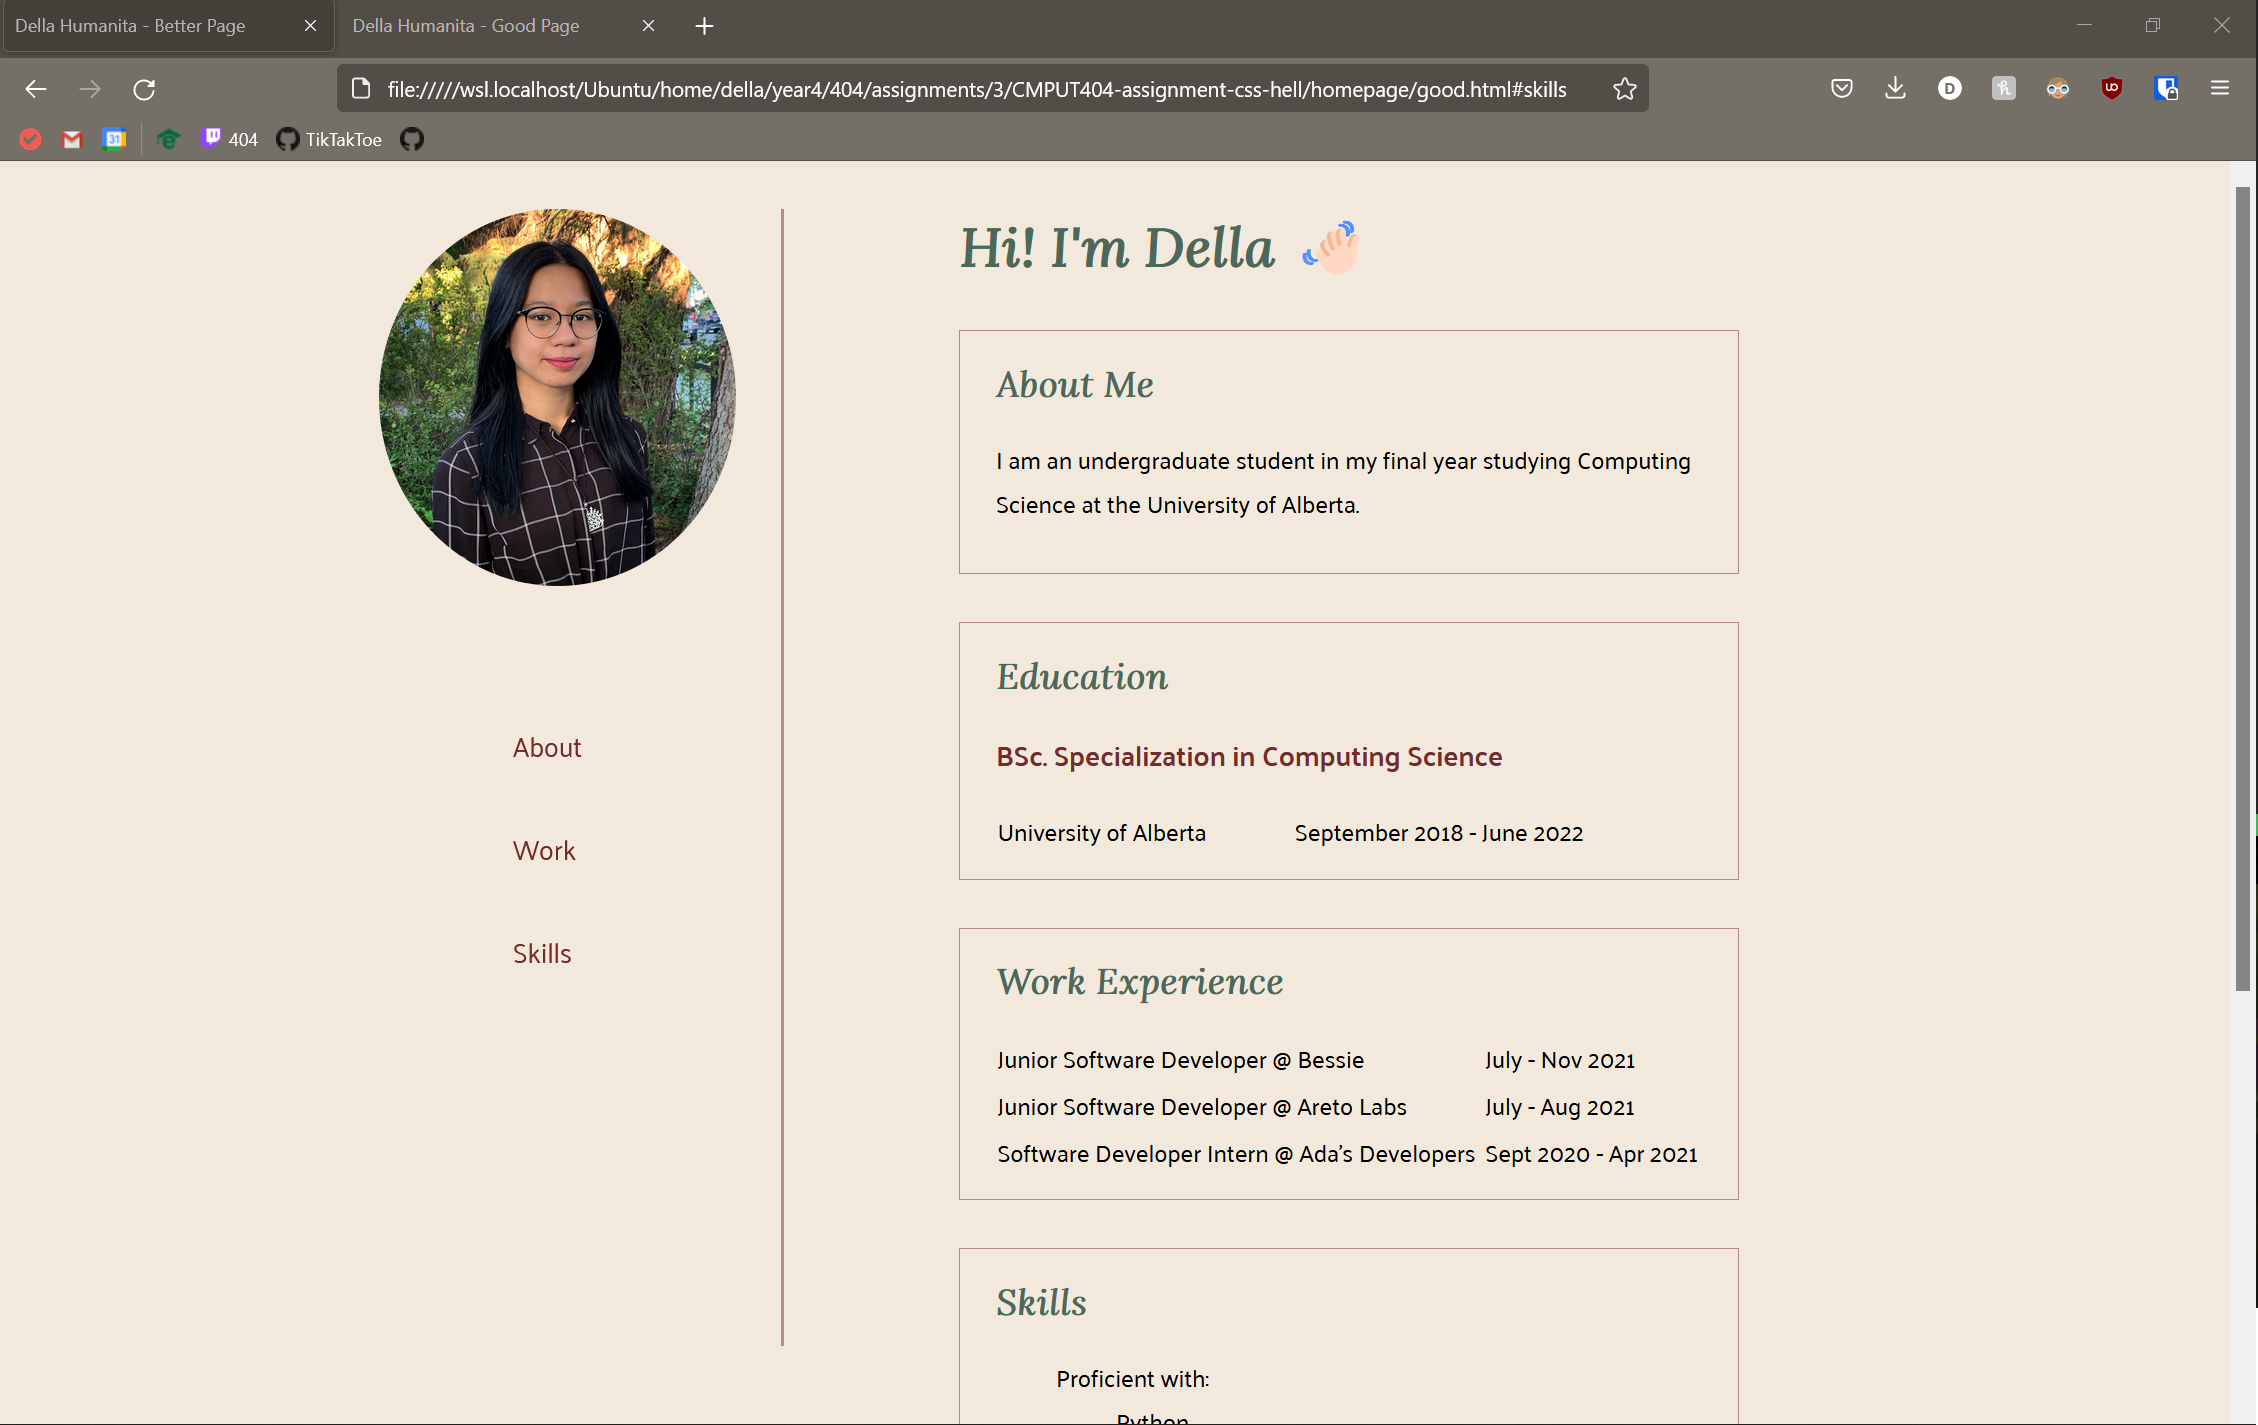
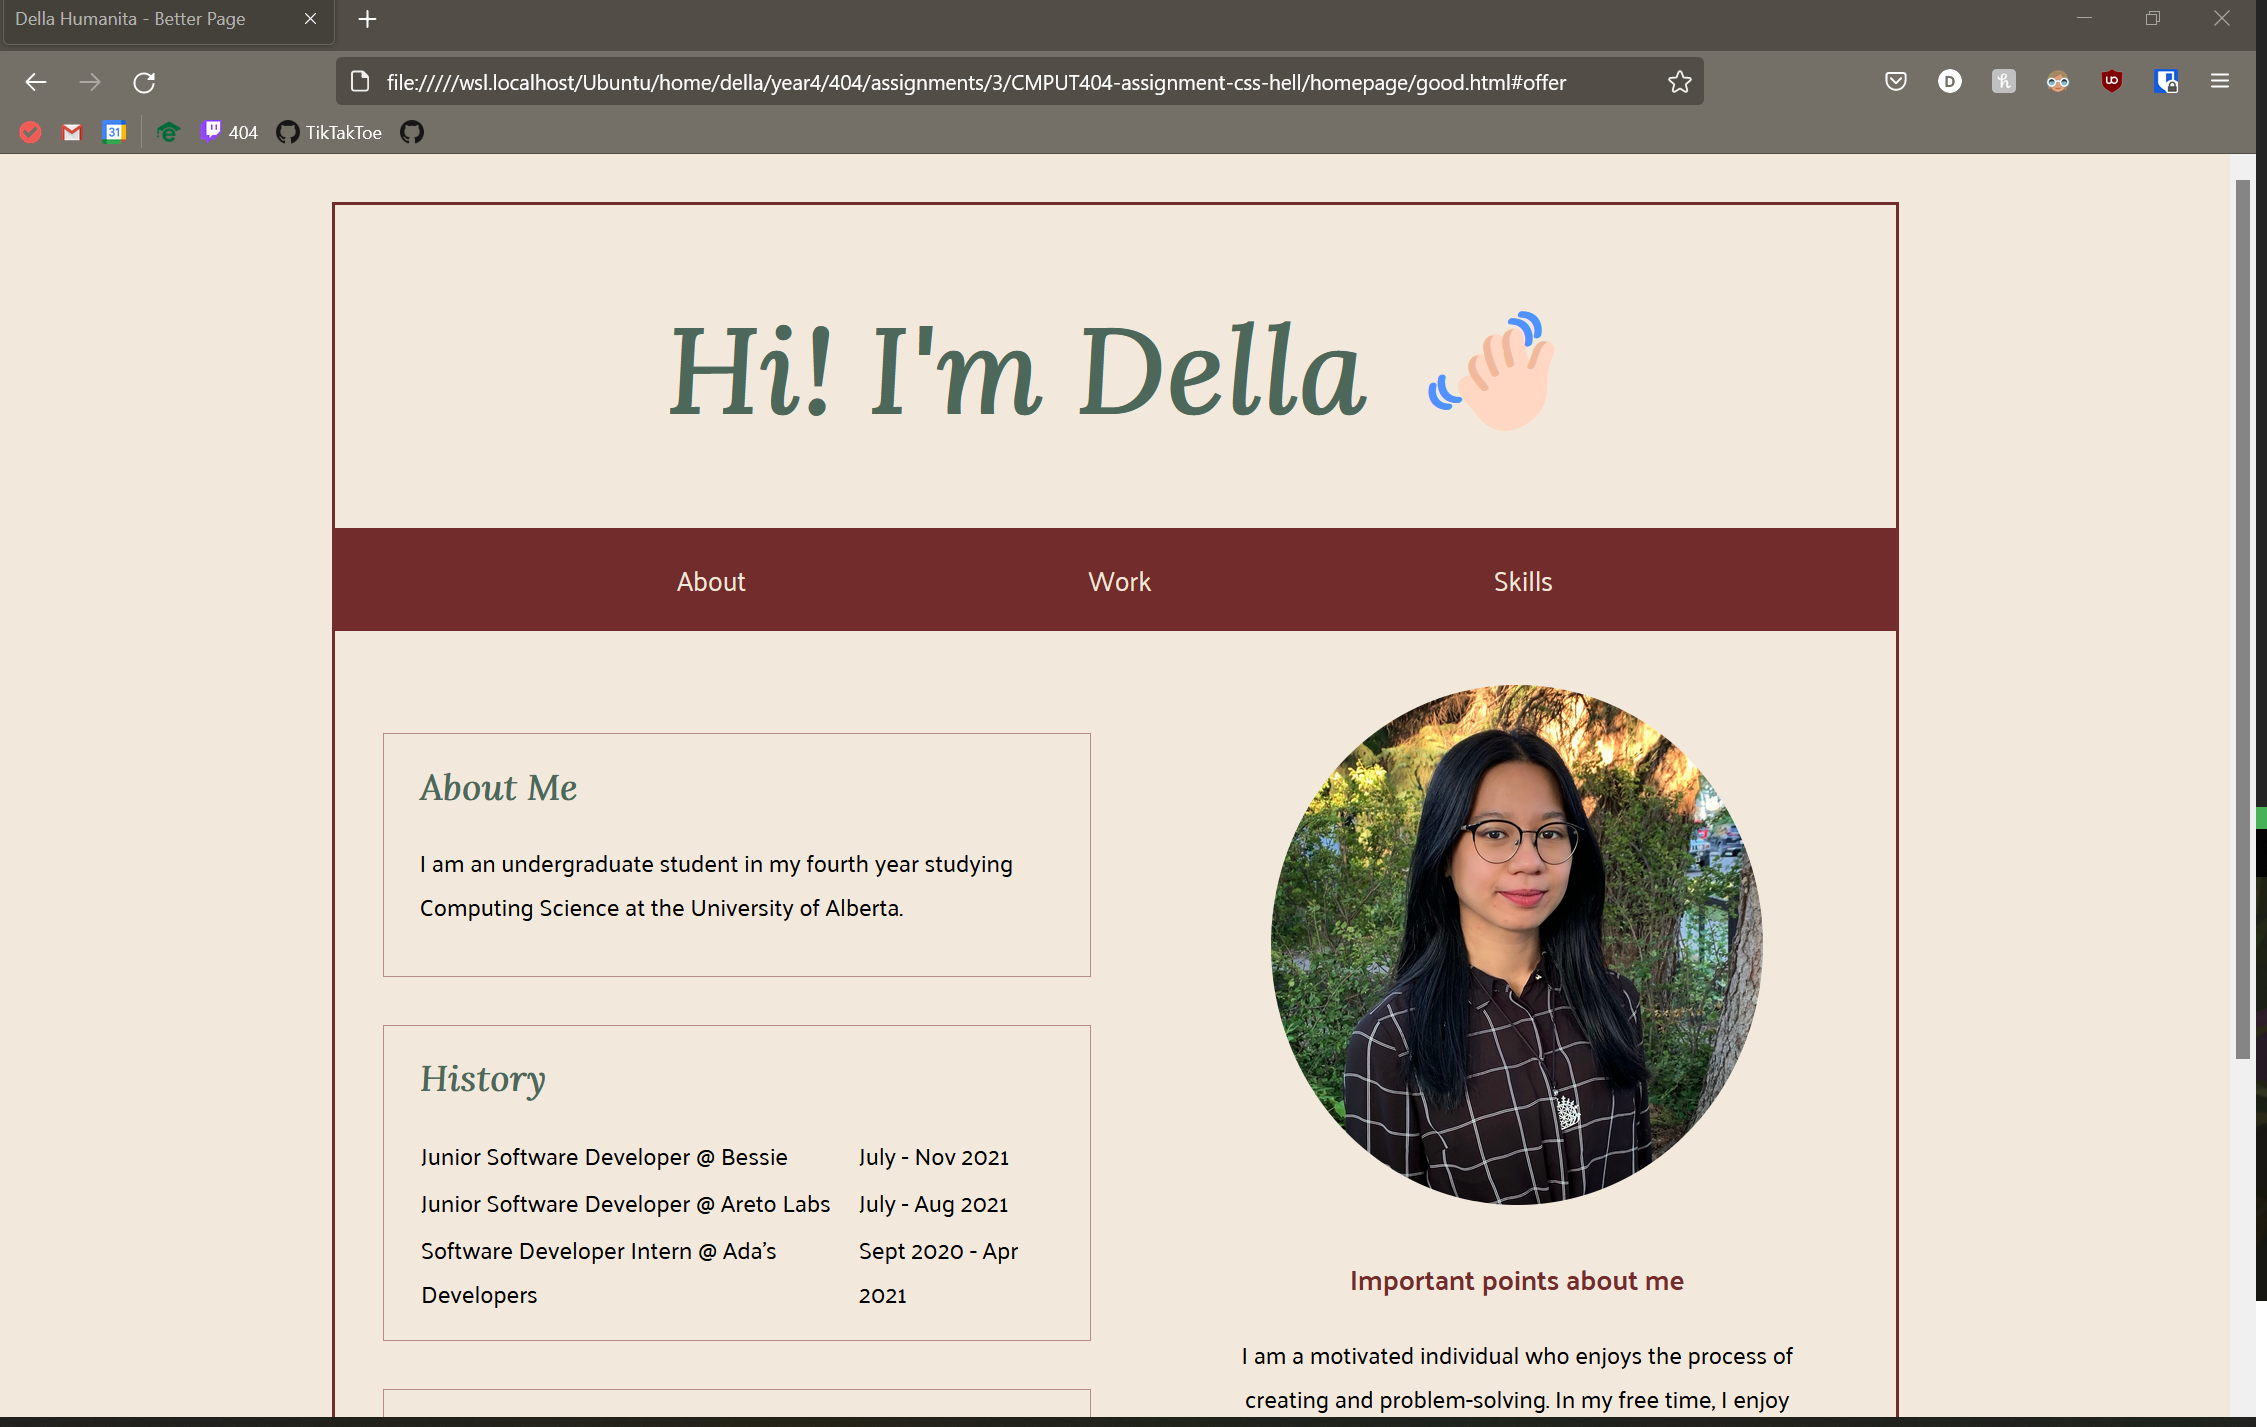
lol followed the design of theoatmeal more closely so changed everything

diff --git a/homepage/ugly.html b/homepage/ugly.html
@@ -5,87 +5,71 @@
     <meta http-equiv="Content-Type" content="text/html;charset=utf-8" />
     <meta http-equiv="Content-Style-Type" content="text/css" />
     <link rel="stylesheet" type="text/css" href="./assets/ugly.css" />
-    <title>Della Humanita - Good Page</title>
+    <title>Della Humanita - Better Page</title>
 </head>
 
-    <body>
-        <header>
-            <img alt="Smiling photo of Della" src="./assets/img/DellaHumanita.jpg">
-            <nav class="navigation">
-                <ul>
-                    <li><a href="#biography">About</a></li>
-                    <li><a href="#history">Work</a></li>
-                    <li><a href="#skills">Skills</a></li>
-                </ul>
-            </nav>
-        </header>
-    
-        <main>
-            <h1>Hi! I'm Della 👋🏻</h1>
+<body>
+    <header>
+        <h1>Hi! I'm Della 👋🏻</h1>
+        <nav>
+            <ul class="navigation">
+                <li><a href="#biography">About</a></li>
+                <li><a href="#history">Work</a></li>
+                <li><a href="#offer">Skills</a></li>
+            </ul>
+        </nav>
+    </header>
+
+    <main>
+        <div class="content">
+
             <section id="biography">
                 <h2>About Me</h2>
-                <p>I am an undergraduate student in my final year studying Computing Science at the University of Alberta.
-                </p>
+                <p>I am an undergraduate student in my fourth year studying Computing Science at the University of
+                    Alberta.</p>
             </section>
-            <div id="history">
-                <section id="education">
-                    <h2>Education</h2>
-                    <h3>BSc. Specialization in Computing Science</h3>
-                    <table>
-                        <tr>
-                            <td>University of Alberta</td>
-                            <td>September 2018 - June 2022</td>
-                        </tr>
-                    </table>
-                </section>
-                <section id="professional-history">
-                    <h2>Work Experience</h2>
-                    <table>
-                        <tr>
-                            <td>Junior Software Developer @ Bessie</td>
-                            <td>July - Nov 2021</td>
-                        </tr>
-                        <tr>
-                            <td>Junior Software Developer @ Areto Labs</td>
-                            <td>July - Aug 2021</td>
-                        </tr>
-                        <tr>
-                            <td>Software Developer Intern @ Ada's Developers</td>
-                            <td>Sept 2020 - Apr 2021</td>
-                        </tr>
-                    </table>
-                </section>
-            </div>
-            <section id="skills">
-                <h2>Skills</h2>
+            <section id="history">
+                <h2>History</h2>
+                <table>
+                    <tr>
+                        <td>Junior Software Developer @ Bessie</td>
+                        <td>July - Nov 2021</td>
+                    </tr>
+                    <tr>
+                        <td>Junior Software Developer @ Areto Labs</td>
+                        <td>July - Aug 2021</td>
+                    </tr>
+                    <tr>
+                        <td>Software Developer Intern @ Ada's Developers</td>
+                        <td>Sept 2020 - Apr 2021</td>
+                    </tr>
+                </table>
+            </section>
+            <section id="offer">
+                <h2>What I have to offer</h2>
                 <ul>
-                    <li>
-                        Proficient with:
-                        <ul>
-                            <li>Python</li>
-                            <li>HTML/CSS</li>
-                            <li>Java</li>
-                            <li>Git</li>
-                            <li>Object-Oriented Programming</li>
-                            <li>Agile (SCRUM) Methodology</li>
-                        </ul>
-                    </li>
-                    <li>
-                        Familiar with:
-                        <ul>
-                            <li>JavaScript</li>
-                            <li>TypeScript</li>
-                            <li>React.js</li>
-                            <li>C</li>
-                            <li>SQL</li>
-                        </ul>
-                    </li>
-    
+                    <li>Proficient knowledge of Python, Java, Git, HTML, CSS, Object-Oriented Programming</li>
+                    <li>Familiar knowledge of JavaScript, C, SQL, React.js</li>
+                    <li>UI/UX Design</li>
+                    <li>Collaborative leadership style</li>
                 </ul>
             </section>
-    
-        </main>
-    
-    </body>
+        </div>
+        <div class="figure">
+            <img alt="Smiling photo of Della" src="./assets/img/DellaHumanita.jpg">
+
+            <div class="important-points">
+                <h3>Important points about me</h3>
+                <p>
+                    I am a motivated individual who enjoys the process of creating and problem-solving. In my free time,
+                    I enjoy knitting, baking, cooking and reading.
+                </p>
+            </div>
+
+        </div>
+
+    </main>
+
+</body>
 
 </html>

diff --git a/homepage/good.html b/homepage/good.html
@@ -9,35 +9,25 @@
 
     <body>
         <header>
-            <img alt="Smiling photo of Della" src="./assets/img/DellaHumanita.jpg">
-            <nav class="navigation">
-                <ul>
+            <h1>Hi! I'm Della 👋🏻</h1>
+            <nav>
+                <ul class="navigation">
                     <li><a href="#biography">About</a></li>
                     <li><a href="#history">Work</a></li>
-                    <li><a href="#skills">Skills</a></li>
+                    <li><a href="#offer">Skills</a></li>
                 </ul>
             </nav>
         </header>
     
         <main>
-            <h1>Hi! I'm Della 👋🏻</h1>
-            <section id="biography">
-                <h2>About Me</h2>
-                <p>I am an undergraduate student in my final year studying Computing Science at the University of Alberta.</p>    
-            </section>
-            <div id="history">
-                <section id="education">
-                    <h2>Education</h2>
-                    <h3>BSc. Specialization in Computing Science</h3>
-                    <table>
-                        <tr>
-                            <td>University of Alberta</td>
-                            <td>September 2018 - June 2022</td>
-                        </tr>
-                    </table>
+            <div class="content">
+
+                <section id="biography">
+                    <h2>About Me</h2>
+                    <p>I am an undergraduate student in my fourth year studying Computing Science at the University of Alberta.</p>    
                 </section>
-                <section id="professional-history">
-                    <h2>Work Experience</h2>
+                <section id="history">
+                    <h2>History</h2>
                     <table>
                         <tr>
                             <td>Junior Software Developer @ Bessie</td>
@@ -53,34 +43,27 @@
                         </tr>
                     </table>
                 </section>
+                <section id="offer">
+                    <h2>What I have to offer</h2>
+                    <ul>
+                        <li>Proficient knowledge of Python, Java, Git, HTML, CSS, Object-Oriented Programming</li>
+                        <li>Familiar knowledge of JavaScript, C, SQL, React.js</li>
+                        <li>UI/UX Design</li>
+                        <li>Collaborative leadership style</li>
+                    </ul>
+                </section>
             </div>
-            <section id="skills">
-                <h2>Skills</h2>
-                <ul>
-                    <li>
-                        Proficient with:
-                        <ul>
-                            <li>Python</li>
-                            <li>HTML/CSS</li>
-                            <li>Java</li>
-                            <li>Git</li>
-                            <li>Object-Oriented Programming</li>
-                            <li>Agile (SCRUM) Methodology</li>
-                        </ul>
-                    </li>
-                    <li>
-                        Familiar with:
-                        <ul>
-                            <li>JavaScript</li>
-                            <li>TypeScript</li>
-                            <li>React.js</li>
-                            <li>C</li>
-                            <li>SQL</li>
-                        </ul>
-                    </li>
+            <div class="figure">
+                <img alt="Smiling photo of Della" src="./assets/img/DellaHumanita.jpg">
+                
+                <div class="important-points">
+                    <h3>Important points about me</h3>
+                    <p>
+                        I am a motivated individual who enjoys the process of creating and problem-solving. In my free time, I enjoy knitting, baking, cooking and reading.
+                    </p>
+                </div>
 
-                </ul>
-            </section>
+            </div>
 
         </main>
 

diff --git a/homepage/assets/good.css b/homepage/assets/good.css
@@ -5,9 +5,16 @@ body {
     margin-bottom: 2em;
     margin-left: auto;
     margin-right: auto;
+    min-height: 100%;
     width: 70%;
     background-color: #F2E9DC;
     font-family: 'Palanquin', sans-serif;
+    border: #732C2C solid 2px;
+}
+
+header {
+    width: 100%;
+    top: 0;
 }
 
 h1, h2 {
@@ -21,33 +28,37 @@ h3, h4 {
 }
 
 h1 {
-    font-size: 2.25em;
-    text-align: left;
+    font-size: 5em;
+    text-align: center;
 
-}
-
-
-img {
-    border-radius: 50%;
-    width: 80%;
-    display:block;
-    margin-left: auto;
-    margin-right: auto;
-}
-
-
-header {
-    height: 90%;
-    width: 20%;
-    position: fixed;
-    border-right: 2px solid #b48a8a;
 }
 
 main {
-    width: 50%;
-    margin-left: 40%;
-    margin-right: 60%;
+    width: 100%;
+    display: grid;
+    grid-template-columns: repeat(2, 1fr);
+    gap: 2em;
+    background-color: #F2E9DC;
+}
+
+.figure {
+    width: 100%;
+    right:0;
+
+}
+
+img {
+    border-radius: 50%;
+    width: 65%;
+    display:block;
+    margin-right: auto;
+    margin-left: auto;
+}
+
+.content {
     text-align: left;
+    background-color: #F2E9DC;
+    padding-left: 2em;
 }
 
 section {
@@ -62,29 +73,26 @@ section {
 }
 
 
-
 .navigation {
-    display:block;
-    margin:auto;
-    width:20%;
-    padding-top: 3em;
+    padding:0;
+    margin:0;
+    list-style:none;
+    display: flex;
+    width:100%;
     font-size: large;
-}
-
-.navigation > ul {
-    padding: 0;
-}
-
-.navigation > ul > li {
-    display: inline-block;
+    justify-content: space-evenly;
+    background-color: #732C2C;
     padding-top: 1em;
     padding-bottom: 1em;
-
+    margin-bottom: 2em;
 }
 
-ul {
-    list-style-type: none;
-}
+.navigation > li > a {
+    padding-top: 1em;
+    padding-bottom: 1em;
+    text-align: center;
+    color: #F2E9DC;
+} 
 
 
 
@@ -120,4 +128,11 @@ table {
 
 table > tr > td {
     padding-left: 2em;
+}
+
+.important-points {
+    margin-top: 2em;
+    padding-left: 3em;
+    padding-right: 3em;
+    text-align: center;
 }
